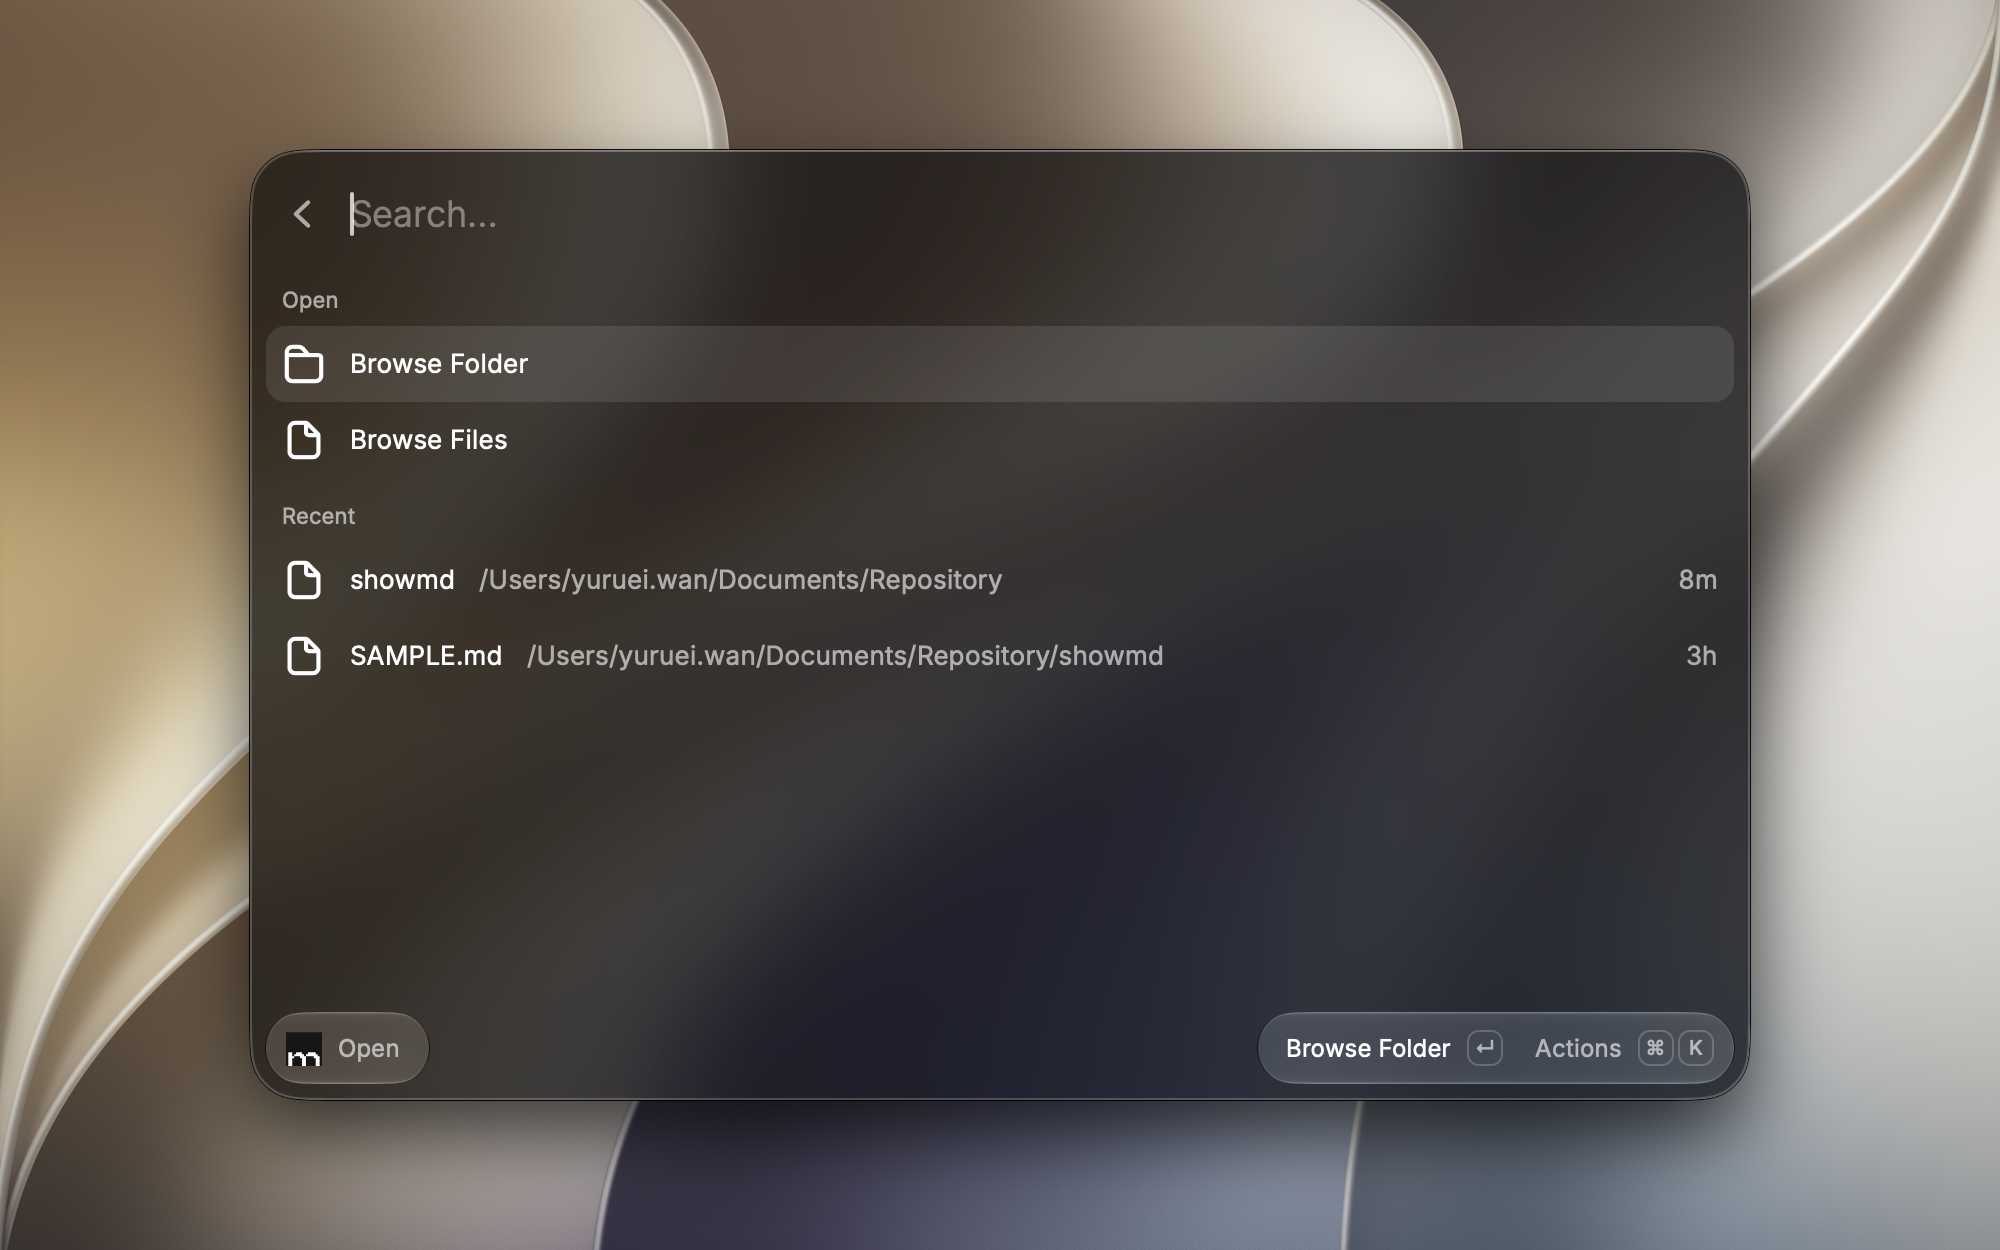
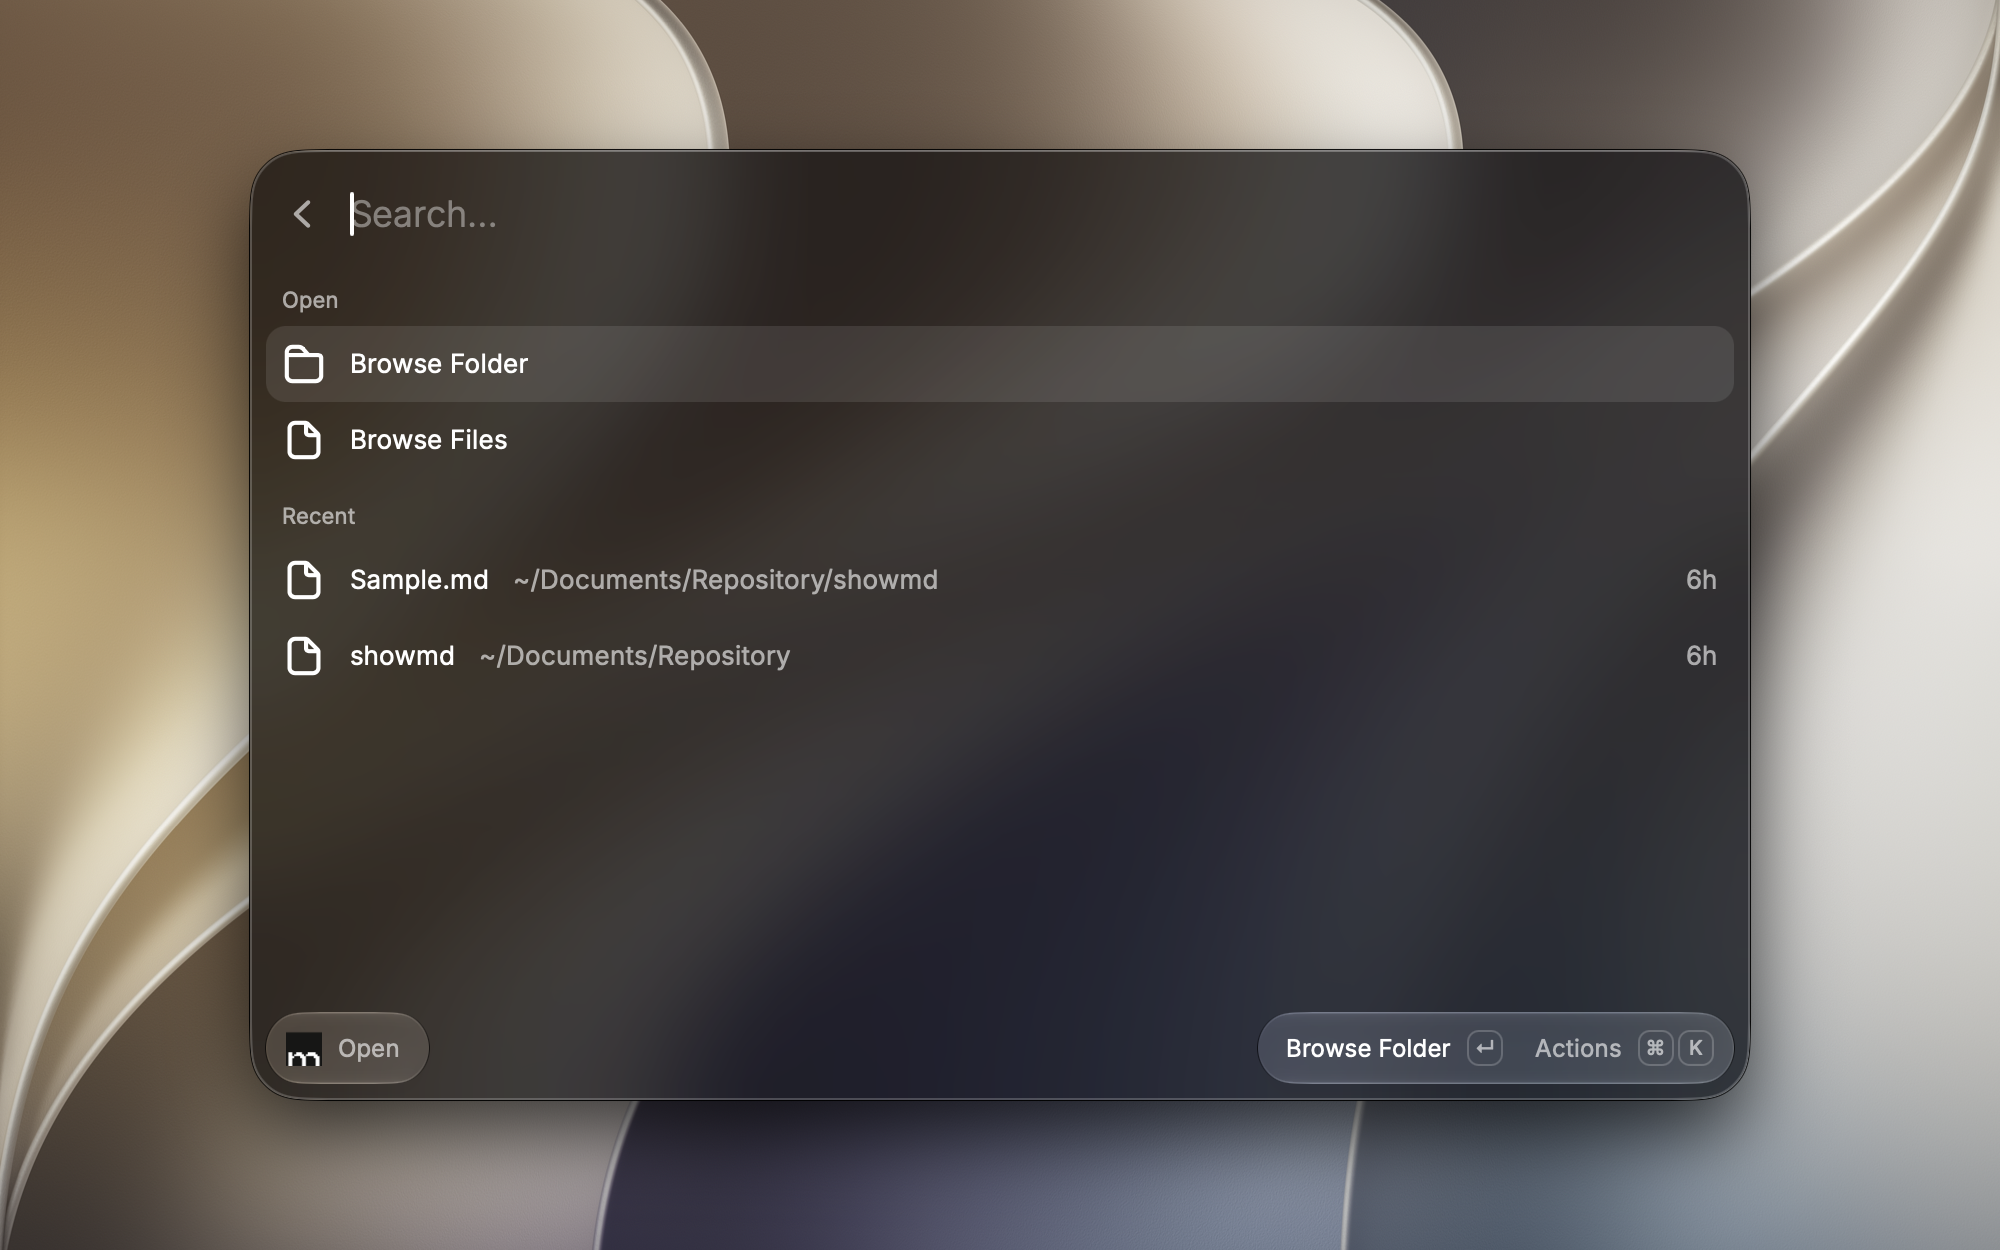
docs: clarify raycast positioning, tighten intro

Changed region(s): [[0.155, 0.4992, 0.589, 0.5304], [0.155, 0.4368, 0.496, 0.468], [0.837, 0.4368, 0.868, 0.468]]

diff --git a/contrib/raycast/README.md b/contrib/raycast/README.md
@@ -3,23 +3,33 @@
 Read and edit markdown in your browser, straight from Raycast.
 
 Open files and folders, return to recent documents, browse your installed agent
-skills, and manage running ShowMD windows and Spaces. ShowMD runs entirely on
+skills, and manage running ShowMD sessions and their open folders. ShowMD runs entirely on
 localhost, so your files never leave your machine.
+
+## How it differs from other markdown extensions
+
+ShowMD is not a note, task, or web-clipping app inside Raycast, and it does
+not prescribe a vault, frontmatter, or publishing workflow. It is a companion
+to [ShowMD](https://github.com/l0kyurue1/showmd), which runs on your machine:
+Raycast finds, launches, and manages ShowMD, while reading and editing happen
+in your browser with a rendered Read Mode, a CodeMirror editor, and built-in
+offline version history. It opens your existing folders and `.md` or
+`.markdown` files in place, and needs no account or sign-in.
 
 ## Commands
 
 - **Open**: browse ShowMD's recent files, or choose a folder or markdown file
   with a native dialog. A folder must contain a markdown file within 3 levels
-  of subdirectories. ShowMD adds the target as a Space to a running window when
+  of subdirectories. ShowMD adds the target to a running session when
   possible, or starts a new one.
-- **Manage ShowMD**: see every running ShowMD window and its Spaces. Open,
-  restart, or stop a window; stop them all; or start ShowMD when it is not
-  running.
+- **Manage ShowMD**: see every running ShowMD session and its open folders.
+  Open, restart, or stop a session; stop them all; or start ShowMD when it is
+  not running.
 - **Edit Settings**: edit ShowMD's settings (color mode, open mode, font family and size, browser, port, update check) from a form.
 - **Browse Agent Skills**: open ShowMD's Skills page, starting `showmd skills`
   if needed.
 - **Open Selected**: open the markdown file or folder currently selected in Finder or Explorer.
-- **Menu Bar** (macOS only): see running ShowMD windows and Spaces, open recent
+- **Menu Bar** (macOS only): see running ShowMD sessions and their open folders, open recent
   documents, and start or stop ShowMD from the menu bar.
 
 Every command with a Raycast view (Open, Manage ShowMD, Edit Settings) carries
@@ -33,7 +43,7 @@ Bug, Request Feature, and Star on GitHub.
 This extension exposes three tools an AI assistant can call directly:
 `open-document` (open a file or folder by path), `list-recents` (list
 recently viewed files), and `server-status` (report whether ShowMD is
-running, what its first window is showing, and count how many are running).
+running, what its first session is showing, and count how many are running).
 
 ## Requirements
 

diff --git a/README.md b/README.md
@@ -7,7 +7,7 @@ Read and edit markdown in your browser.
 npx showmd-cli
 ```
 
-showmd serves a folder of markdown files to your browser: a rendered reading view with folder navigation, an inline editor that renders code, math, and diagrams as you type, a version history of every save, and a browser for the skills, instructions, and memory files your AI agents run on. It runs on localhost with a single runtime dependency, and nothing you write leaves your machine.
+showmd opens a folder of markdown files as readable pages in your browser: a rendered reading view with folder navigation, an inline editor that renders code, math, and diagrams as you type, and a version history of every save. It also shows the skills, instructions, and memory files your AI agents run on. Everything runs on localhost, and nothing you write leaves your machine.
 
 <img src="docs/media/screenshots/showmd-demo.gif">
 

diff --git a/contrib/README.md b/contrib/README.md
@@ -10,9 +10,10 @@ Linux, run `showmd install-app` (see the main [README](../README.md#desktop-app)
 | macOS, Windows (Raycast) | `raycast/` | A full Raycast extension: six commands, three AI tools, and a menu bar extra (macOS only). See its [README](raycast/README.md) |
 | Windows | `showmd.reg` | Double-click `showmd.reg`, accept the prompt, adds a "showmd" entry to the `.md` right-click menu (no admin required) |
 
-Both need `showmd` on `PATH` (`npm install -g showmd`). The Raycast extension
-also takes an explicit path in its ShowMD Path preference, and falls back to
-`npx -y showmd-cli` when it finds nothing.
+The `.reg` handler needs `showmd` on `PATH` (`npm install -g showmd-cli`).
+The Raycast extension finds an installed copy on its own, takes an explicit
+path in its ShowMD Path preference, and falls back to `npx -y showmd-cli`
+when it finds nothing.
 
 ## Homebrew
 
